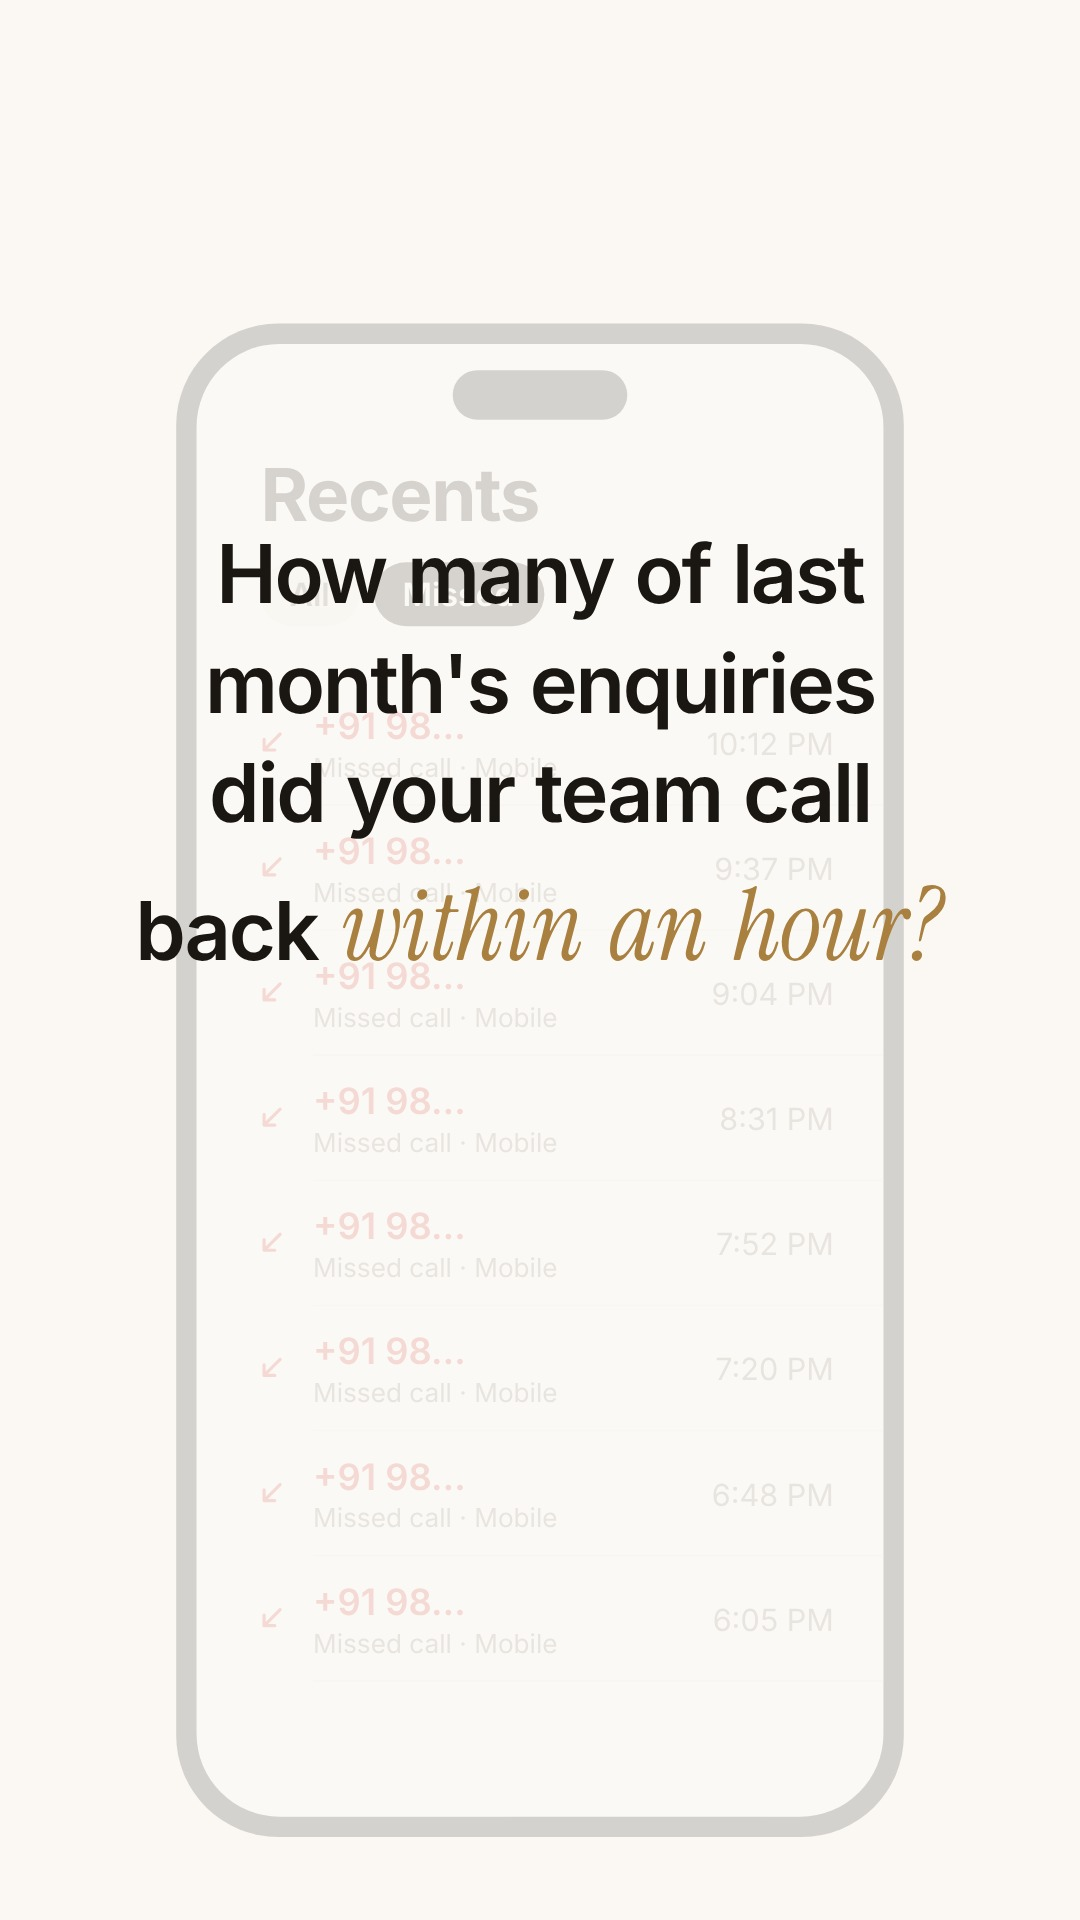
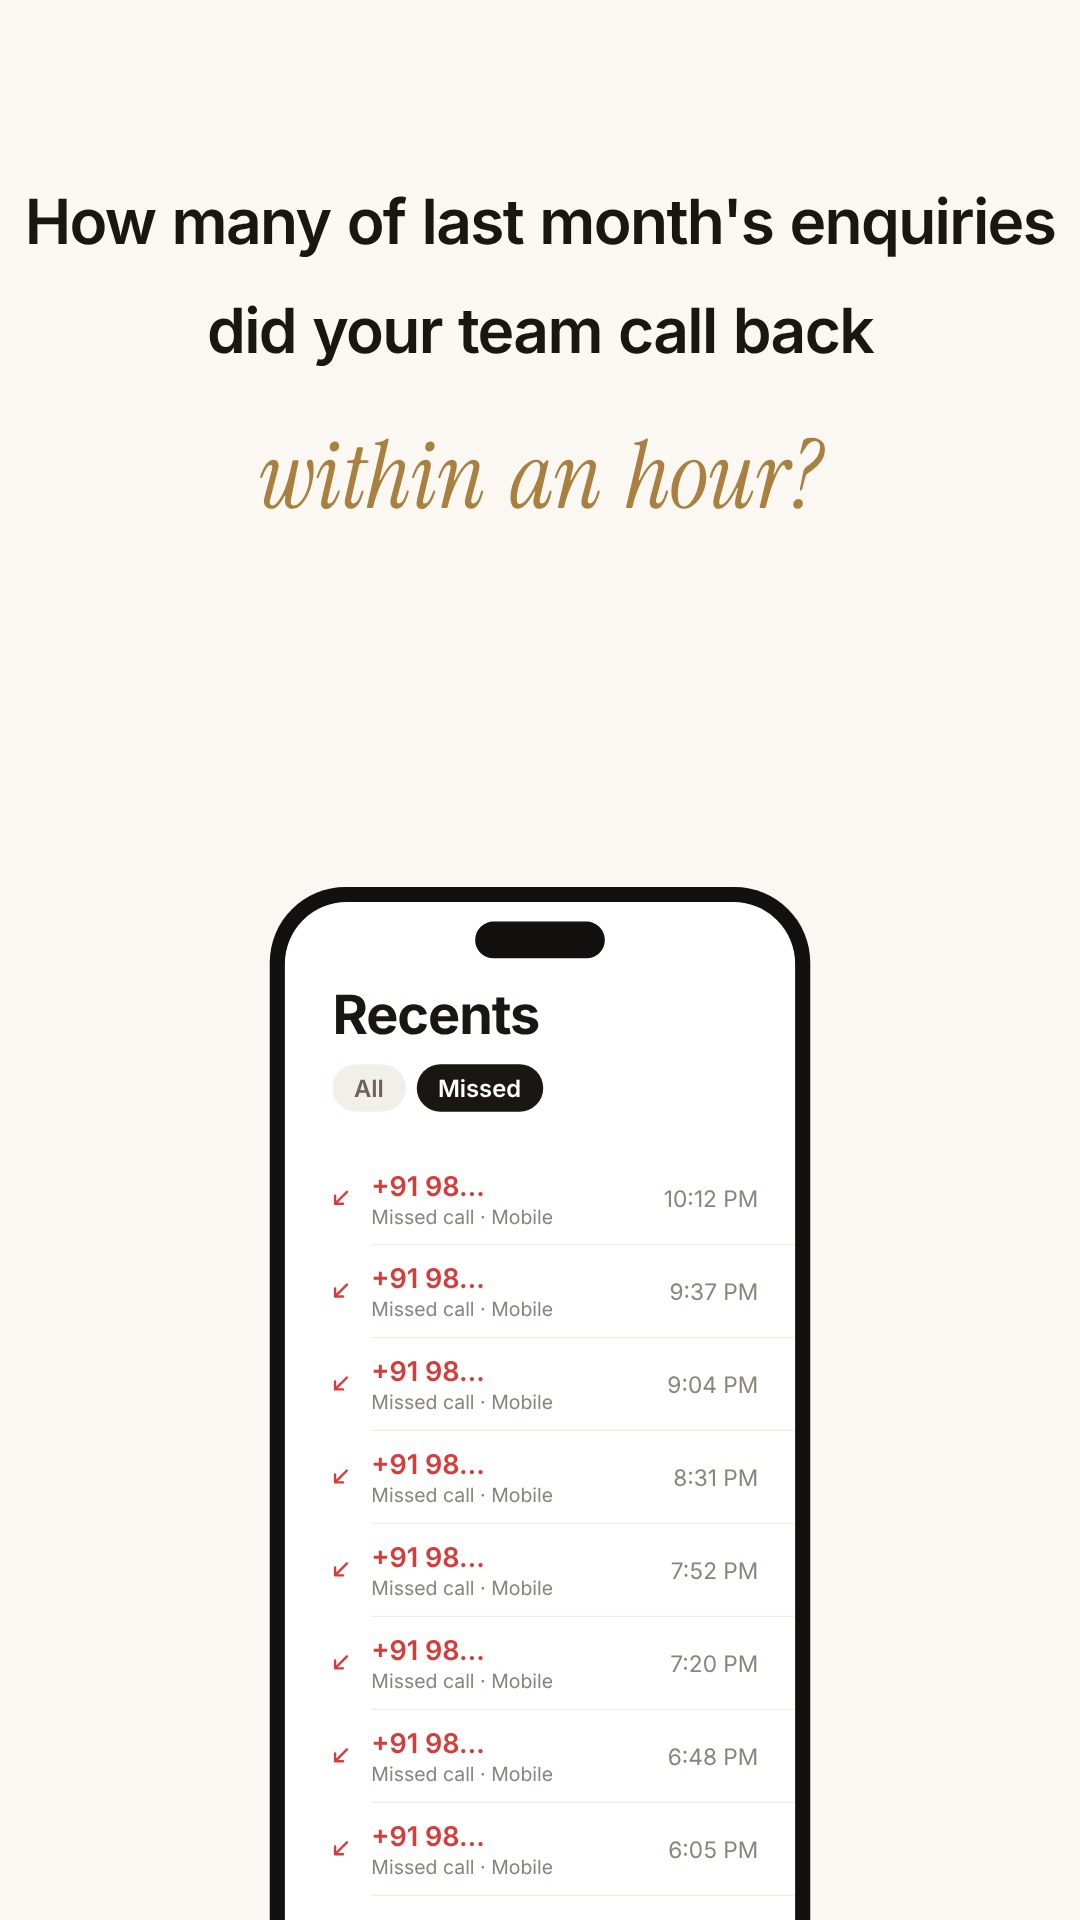
Builder pitch 9:16: hook question above the phone, CRM assign as stacked lead cards
- hook: question in the top 40% on three lines (Inter lines auto-fit to the
  frame, gold serif line on its own), missed-call phone in the lower 55%
- CRM: three lead cards (name + masked number, owner, full-width Move to +
  Move), Karan's in the middle and highlighted; names 40 px, buttons 38 px
- re-rendered 9:16 stills 1 and 5

Claude-Session: https://claude.ai/code/session_01EVUHwGug7g2sFYZDtfSNnm

diff --git a/gr-builder-pitch/src/film.js b/gr-builder-pitch/src/film.js
@@ -167,7 +167,7 @@ const PHOTO = (scn, name, ox, oy, sc) => css(IMG('../gen/photos/' + name + '.jpg
 // ================================================================== 1. hook (0 - 5.2)
 const s1 = scene(0, 5.2);
 const PH1 = pick({ w: 500, h: 1040, x: 710, y: 92, s: 1, rows: 232, lift: [960, 600] },
-  { w: 500, h: 1040, x: 290, y: 330, s: 1.4, rows: 232, lift: [540, 1060] });
+  { w: 500, h: 1040, x: 290, y: 872, s: 1.04, rows: 232, lift: [540, 760] });
 const mph = css(E('div', 'mphone', s1.push), { width: PH1.w, height: PH1.h, left: PH1.x, top: PH1.y, transformOrigin: '50% 0' });
 const mscr = E('div', 'scr', mph); E('div', 'notch', mscr); E('div', 'hd', mscr, 'Recents');
 E('div', 'tabs', mscr, '<span>All</span><span class="on">Missed</span>');
@@ -180,7 +180,7 @@ const mrowEls = MISSED.map((tm, k) => E('div', 'mrow', mrows,
 ROWT.forEach(t => cue(t, 'tick', .8));
 // the question, typed at the word times
 const QW = TM[0].words;
-const QL = pick({ split: [0, 6], y: [470, 582] }, { split: [0, 4, 6, 10], y: [600, 705, 810, 930] });
+const QL = pick({ split: [0, 6], y: [470, 582] }, { split: [0, 6, 11], y: [270, 375, 500] });
 const qlines = QL.y.map(y => css(E('div', 'q', s1.push), { top: y - 50 }));
 const qws = QW.map((w, i) => {
   let li = 0; QL.split.forEach((s, k) => { if (i >= s) li = k; });
@@ -188,7 +188,7 @@ const qws = QW.map((w, i) => {
 });
 s1.render = t => {
   push(s1, t, W / 2, H / 2);
-  mph.style.opacity = lerp(.16, 1, ss(t, 4.45, 4.85));
+  mph.style.opacity = V ? 1 : lerp(.16, 1, ss(t, 4.45, 4.85)); // 9:16: the phone sits below the question, never behind it
   mph.style.transform = `translateY(${lerp(18, 0, sp(t, 4.4, 9))}px) scale(${PH1.s})`;
   MISSED.forEach((_, k) => {
     let y = 0; for (let j = k + 1; j < MISSED.length; j++) y += sp(t, ROWT[j], 16) * RH;
@@ -390,6 +390,27 @@ T2.cols.forEach(([x0, x1], j) => css(crop(k2b, 'c02b_karan', x0 + 4, 1476, x1, 1
 const DD = crop(tab2.root, 'c02b_dd', 2550, 1506, 2800, 1562);
 const ddAt = tab2.at(T2.cols.length - 1, 2, 2550, 1506); css(DD, { left: ddAt[0], top: ddAt[1] });
 const tint2 = css(E('div', 'hl', tab2.root), { left: 0, right: 0, top: tab2.hh + 260, height: 130 });
+// 9:16: the list re-set as three lead cards (Harsh, Karan, Kavya), Karan's in the middle; names 40 px, Move 36 px
+const ST = { x: 60, w: 960, h: 440, gap: 24, s: 1.3 };
+ST.top = 960 - ST.h * 1.5 - ST.gap;
+const stY = k => ST.top + k * (ST.h + ST.gap);
+let stack = [], stTitle;
+if (V) {
+  tab2.root.style.display = 'none';
+  stTitle = crop(s5a.push, 'c02_bg', 640, 1010, 1300, 1100); stTitle.style.mixBlendMode = 'multiply';
+  const chev = '<svg viewBox="0 0 24 24" width="34" height="34"><path d="M6 9l6 6 6-6" stroke="#1d1d1d" stroke-width="2.6" fill="none" stroke-linecap="round" stroke-linejoin="round"/></svg>';
+  stack = [1, 2, 3].map(ri => {
+    const y0 = 1210 + ri * 130;
+    const c = css(E('div', 'scard', s5a.push), { left: ST.x, top: 0, width: ST.w, height: ST.h });
+    const nm = crop(c, 'c02_r' + ri, 640, y0 + 18, 1040, y0 + 112); tl(nm, 36, 26, ST.s); nm.style.mixBlendMode = 'multiply';
+    css(E('div', 'slbl', c, 'OWNER'), { top: 166 });
+    const ow = crop(c, 'c02_r' + ri, 1930, y0 + 40, 2200, y0 + 92); tl(ow, 36, 196, ST.s); ow.style.mixBlendMode = 'multiply';
+    css(E('div', 'slbl', c, 'MOVE TO'), { top: 284 });
+    const dd = css(E('div', 'sdd', c, '<span>Choose\u2026</span>' + chev), { left: 36, top: 320, width: 600, height: 92 });
+    css(E('div', 'sbtn', c, 'Move'), { left: 660, top: 320, width: ST.w - 36 - 660, height: 92 });
+    return { c, dd };
+  });
+}
 const cursor = E('div', 'abs', s5a.push, SVG.cursor);
 // the new-lead card: the real one at 0.72 in 16:9 (29 px text); 9:16 re-sets its parts in a narrower card at 0.84 (34 px)
 const leadImg = css(E('div', 'abs', s5a.push), { position: 'absolute' });
@@ -418,30 +439,47 @@ s5a.render = t => {
   push(s5a, t, W / 2, H / 2);
   // the list rises in behind the card
   const rise = (1 - sp(t, 27.85, 8)) * H * 1.05;
-  tl(tab2.root, T2X, T2Y + rise, T2.z, 1);
   s5abg.style.transform = `translateY(${rise}px)`;
   const open = sp(t, 30.95, 14);
-  tab2.rows.forEach((r, i) => {
-    if (i < 2) lt(r, 0, 0, 1, 1);
-    else if (i === 2) lt(r, 0, 0, 1, ss(t, 31.28, 31.4) * (1 - ss(t, 33.06, 33.1)));
-    else lt(r, 0, -130 * (1 - open), 1, 1);
-  });
-  hlrow.style.opacity = k2b.style.opacity = ss(t, 33.06, 33.1) * (1 - ss(t, 33.62, 33.72));
-  DD.style.opacity = ss(t, 32.45, 32.5) * (1 - ss(t, 33.06, 33.1));
-  tint2.style.opacity = ss(t, 31.28, 31.4) * (1 - ss(t, 31.6, 32.4)) * .9;
+  if (!V) {
+    tl(tab2.root, T2X, T2Y + rise, T2.z, 1);
+    tab2.rows.forEach((r, i) => {
+      if (i < 2) lt(r, 0, 0, 1, 1);
+      else if (i === 2) lt(r, 0, 0, 1, ss(t, 31.28, 31.4) * (1 - ss(t, 33.06, 33.1)));
+      else lt(r, 0, -130 * (1 - open), 1, 1);
+    });
+    hlrow.style.opacity = k2b.style.opacity = ss(t, 33.06, 33.1) * (1 - ss(t, 33.62, 33.72));
+    DD.style.opacity = ss(t, 32.45, 32.5) * (1 - ss(t, 33.06, 33.1));
+    tint2.style.opacity = ss(t, 31.28, 31.4) * (1 - ss(t, 31.6, 32.4)) * .9;
+  } else {
+    tl(stTitle, ST.x, ST.top - 150 + rise, ST.s, 1);
+    stack.forEach((c, k) => {
+      let y = stY(k) + rise, o = 1;
+      if (k === 1) o = ss(t, 31.28, 31.4) * (1 - ss(t, 33.62, 33.72));
+      if (k === 2) y -= (ST.h + ST.gap) * (1 - open);
+      c.c.style.transform = `translateY(${y}px)`; c.c.style.opacity = o;
+    });
+    const K = stack[1], hi = ss(t, 33.06, 33.1), fl = ss(t, 31.28, 31.4) * (1 - ss(t, 31.6, 32.4));
+    K.c.style.background = mixc('#FFFFFF', '#FBF3E4', Math.max(hi, fl * .9));
+    K.c.style.border = hi > 0 ? `3px solid rgba(169,128,63,${hi})` : '2px solid #ECEAE7';
+    K.dd.firstChild.textContent = t >= 32.45 ? 'Rohan Kulkarni' : 'Choose\u2026';
+  }
+  // Karan's slot, his dropdown and his Move button, in screen px
+  const KS = V ? [ST.x + ST.w / 2, stY(1) + ST.h / 2] : t2s(...tab2.at(0, 2, 880, 1535));
+  const DDP = V ? [ST.x + 36 + 300, stY(1) + 366] : t2s(...tab2.at(T2.cols.length - 1, 2, 2671, 1533));
+  const MVP = V ? [ST.x + 660 + (ST.w - 696) / 2, stY(1) + 366] : t2s(...tab2.at(T2.cols.length - 1, 2, 2882, 1534));
   // booked bubble -> new-lead card
   const r = doneRect(27.6), bp = sp(t, 27.6, 10);
   put(xfer, lerp(r.x, W / 2, bp), lerp(r.y, pick(500, 900), bp), lerp(r.w / LAY.wa_done.w, .2, bp), 1 - ss(t, 27.72, 27.86));
   const gp = sp(t, 27.68, 9), land = sp(t, TLANDS, 18), fold = sp(t, 30.95, 9);
   const cy = pick(500, 820);
-  const rowS = t2s(...tab2.at(0, 2, 880, 1535));
-  put(leadImg, lerp(W / 2, rowS[0], fold), lerp(lerp(cy - 40, cy, land), rowS[1], fold),
+  put(leadImg, lerp(W / 2, KS[0], fold), lerp(lerp(cy - 40, cy, land), KS[1], fold),
     lerp(lerp(.12, LEADS * 1.02, gp) * lerp(1, .98, land), .1, fold), ss(t, 27.68, 27.8) * (1 - ss(t, 31.2, 31.35)));
   const sb = sp(t, TCONV, 5);
   sumBox.style.clipPath = `inset(-10px ${(1 - sb) * 100}% -10px -10px)`;
   sumBox.style.opacity = ss(t, TCONV, TCONV + .1);
   // the manager's one click
-  const dd = t2s(...tab2.at(T2.cols.length - 1, 2, 2671, 1533)), mv = t2s(...tab2.at(T2.cols.length - 1, 2, 2882, 1534));
+  const dd = DDP, mv = MVP;
   const c0 = [pick(1500, 760), pick(960, 1500)];
   const a1 = sp(t, 31.85, 7), a2 = sp(t, 32.62, 9);
   const cx = lerp(lerp(c0[0], dd[0], a1), mv[0], a2), cyy = lerp(lerp(c0[1], dd[1], a1), mv[1], a2);
@@ -452,7 +490,7 @@ s5a.render = t => {
   // Karan's row leaves as the card, for Rohan
   if (t >= 33.6) {
     const p = ein(clamp((t - 33.7) / .5));
-    const rs = t2s(...tab2.at(0, 2, 900, 1535));
+    const rs = V ? KS : t2s(...tab2.at(0, 2, 900, 1535));
     card({ parent: s5a.push, x: lerp(Math.max(rs[0], CW * CS / 2 + 30), W + 500, p), y: rs[1], s: CS * lerp(.9, 1, ss(t, 33.6, 33.75)),
       o: ss(t, 33.6, 33.7), sub: 'rohan', tag: 'rohan' });
   }
@@ -853,6 +891,13 @@ window.CAPSEGS = SEGS.map(s => ({ a: s.a, b: s.b, text: s.words.map(w => w.w).jo
 window.FILM = { W, H, END, SHAPE };
 (async () => {
   await document.fonts.ready;
+  if (V) { // 9:16: the two Inter lines of the question share the largest size (72 px at most) that fits the frame
+    s1.root.style.display = 'block';
+    const width = l => { const r = document.createRange(); r.selectNodeContents(l); return r.getBoundingClientRect().width; };
+    const k = Math.min(1, ...qlines.slice(0, 2).map(l => (W - 80) / width(l)));
+    qlines.slice(0, 2).forEach(l => { l.style.fontSize = (72 * k).toFixed(1) + 'px'; });
+    s1.root.style.display = 'none';
+  }
   await Promise.all(IMGS.map(i => i.complete && i.naturalWidth ? 0 : new Promise(res => {
     i.addEventListener('load', res, { once: true }); i.addEventListener('error', () => { console.error('load', i.src); res(); }, { once: true });
   })));

diff --git a/gr-builder-pitch/src/film.css b/gr-builder-pitch/src/film.css
@@ -72,6 +72,8 @@ img{user-select:none}
 .q{position:absolute;left:0;right:0;text-align:center;font:600 78px Inter;letter-spacing:-2.2px;line-height:1}
 .q .w{display:inline-block;margin:0 .13em;white-space:nowrap}
 .q .serif{font-size:96px;letter-spacing:-.5px}
+html[data-shape="9x16"] .q{font-size:72px;letter-spacing:-1.6px;white-space:nowrap}
+html[data-shape="9x16"] .q .serif{font-size:90px}
 
 /* chips + thread (scene 3) */
 .chip{position:absolute;display:flex;align-items:center;gap:14px;padding:18px 30px;border-radius:999px;background:#fff;
@@ -120,6 +122,12 @@ img{user-select:none}
 .ctab .rw{position:absolute;left:0;right:0}
 .ctab .hlrow{position:absolute;left:0;right:0;background:#FBF3E4;border-top:3px solid #A9803F;border-bottom:3px solid #A9803F}
 .scrim{position:absolute;inset:0;background:#1A1712}
+
+/* 9:16 leads list as stacked lead cards */
+.scard{position:absolute;background:#fff;border:2px solid #ECEAE7;border-radius:28px;overflow:hidden;box-shadow:0 10px 30px rgba(26,23,18,.06)}
+.slbl{position:absolute;left:36px;font:600 26px Inter;letter-spacing:2.4px;color:#9a948c}
+.sdd{position:absolute;display:flex;align-items:center;justify-content:space-between;padding:0 22px 0 26px;border:2.5px solid #2a2a2a;border-radius:12px;font:400 38px Inter;color:#1d1d1d;background:#fff;white-space:nowrap}
+.sbtn{position:absolute;display:flex;align-items:center;justify-content:center;border:2px solid #E3E1DE;border-radius:14px;font:600 38px Inter;color:#5f5f5f;background:#fff}
 
 /* 9:16 HTML panels where the real layer's text lines are too wide to reach 34 px at 1080 wide */
 .tipsh{position:absolute;left:0;top:0;background:#fff;border-radius:34px;box-shadow:0 30px 80px rgba(26,23,18,.22);overflow:hidden;color:#1A1712}
